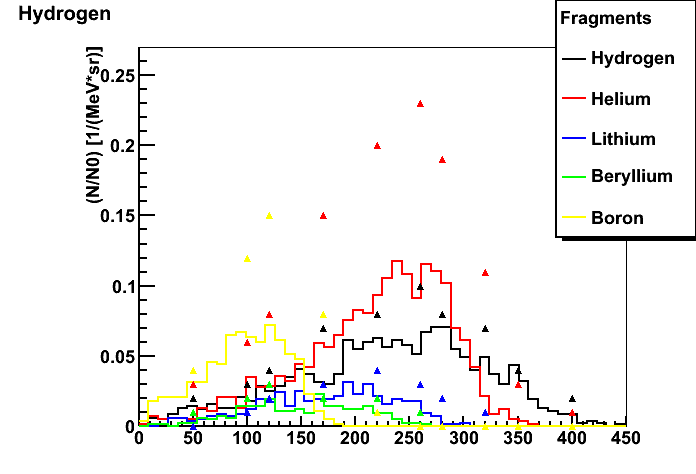
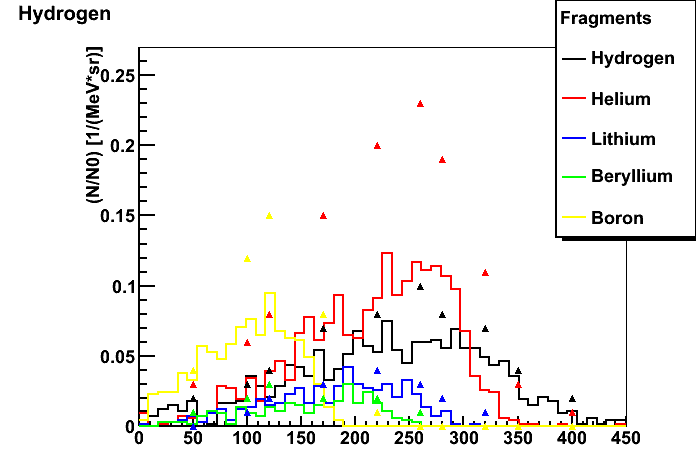
changed norming of braggpeak plot and added dialog to script to ask about norming or not

diff --git a/RootScripts/iaeaBenchmark/braggPeak.C b/RootScripts/iaeaBenchmark/braggPeak.C
@@ -21,12 +21,16 @@
 
 
 void braggPeak() {
+	TString normToZeroPos;
+	cout << "Normalize to first bin? (Y/N):";
+    cin >> normToZeroPos;
+	
 	TCanvas *c1 = new TCanvas("Bragg curve", "Bragg curve comparison");
 
 	//TCanvas *c1 = new TCanvas("BraggPeaks", "Energy depositions along x-axis in phantom");
 	gStyle->SetOptStat(0000000000); //remove the for this graphs totally redundant statbox
 
-//   gROOT->SetStyle("clearRetro");
+   gROOT->SetStyle("clearRetro");
  //this will be used as base for pulling the experimental data
    TString dir = gSystem->UnixPathName(gInterpreter->GetCurrentMacroName());
    dir.ReplaceAll("basic.C","");
@@ -76,19 +80,27 @@ void braggPeak() {
 
 	simBragg->GetXaxis()->SetLimits(0.0, waterThickness);
 	simBragg->SetLineColor(kBlue);
-	//simBragg->GetXaxis()->SetName("test");
 	simBragg->SetXTitle("Depth in phantom (cm)");
 	simBragg->SetYTitle("Ionization (MeV/m)");
 	//simBragg->GetXaxis()->SetTitleOffset(1);
 	simBragg->GetYaxis()->SetTitleOffset(1.5);
 	std::cout << "Maximum (Bragg peak) for simulation data is at: " << simBragg->GetBinCenter(simBragg->GetMaximumBin()) + 0.478/2 + 0.027 + 0.073 << endl;
 	std::cout << "Bin width is " << simBragg->GetBinWidth(simBragg->GetMaximumBin()) << endl;
+	
+	if(normToZeroPos == "Y"){
+	Float_t normElement;
+	ntuple->SetBranchAddress("i",&normElement);
+	ntuple->GetEntry(0);
+	simBragg->Scale(normElement/simBragg->GetBinContent(0));
+	}else{
 	simBragg->Scale(1.0/(100*events*simBragg->GetBinWidth(0))); // 100 for converting to MeV/m
-	//simBragg->ShowPeaks();
+	}
+
+	//simBragg->ShowPeaks(); //Can be used to mark out bragg peaks specificly.
 	simBragg->Draw();
 	ntuple->SetMarkerColor(kRed);
 	ntuple->SetMarkerStyle(22);
 	std::cout << ntuple->GetEntries() << endl;
 	ntuple->Draw("i:d-(0.478+0.027+0.073)","","p,same"); // the minuses are the WE's, here only real water depth is plotted.
-	c1->SaveAs("braggPeakComparisonToData.png");
+	c1->SaveAs("braggPeakComparisonToData_norm_" + normToZeroPos + ".png");
 }
